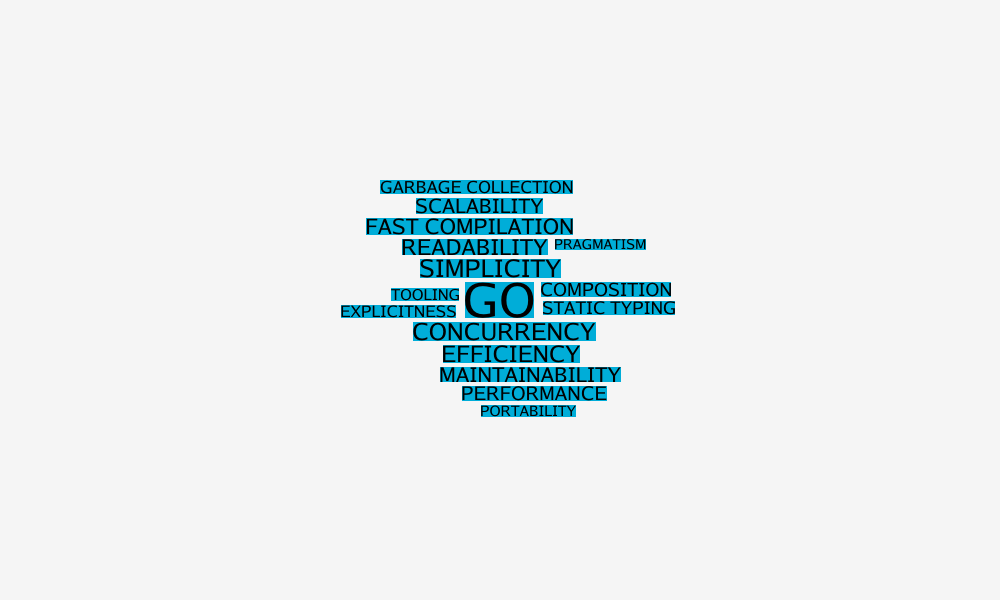
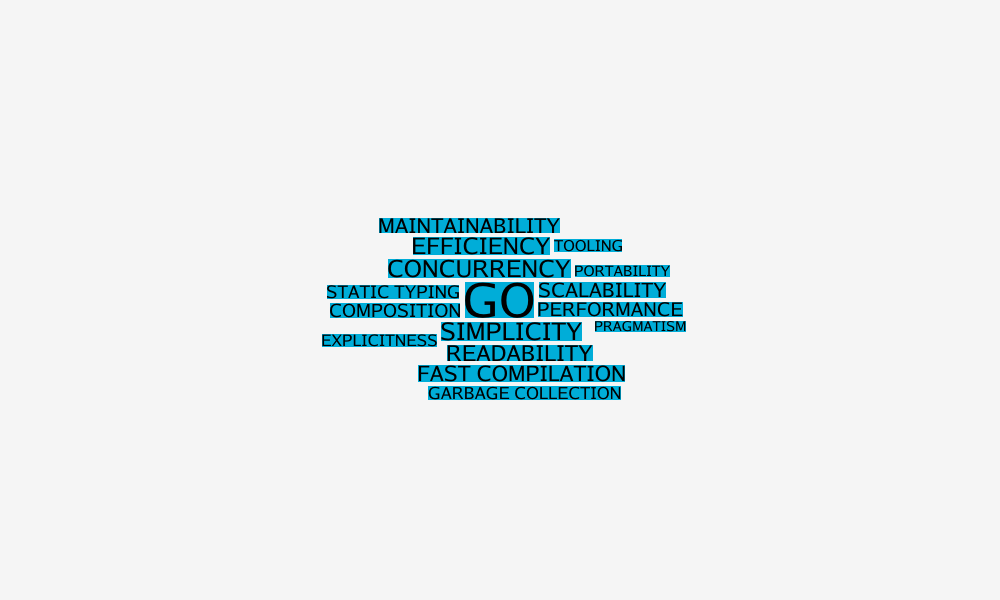
fix: squished spiral

Changed region(s): [[0.31, 0.3, 0.682, 0.72]]

diff --git a/src/main.go b/src/main.go
@@ -47,10 +47,11 @@ func main() {
 			log.Fatalf("Word %q does not fit on canvas", word.Text)
 		}
 
-		// Start at the center and move outward along an Archimedean spiral.
+		// Start at the center and move outward along a vertically squished spiral.
 		centerX := canvas.Bounds().Min.X + canvasMaxX/2
 		centerY := canvas.Bounds().Min.Y + canvasMaxY/2
-		maxRadius := math.Hypot(float64(canvasMaxX), float64(canvasMaxY))/2 + 2
+		const verticalScale = 0.6
+		maxRadius := math.Hypot(float64(canvasMaxX)/2, float64(canvasMaxY)/(2*verticalScale)) + 2
 		phase := rand.Float64() * 2 * math.Pi
 		var placedRect image.Rectangle
 		found := false
@@ -60,7 +61,7 @@ func main() {
 		for angle := 0.0; 1.5*angle <= maxRadius && !found; angle += 1 / math.Max(1, 1.5*angle) {
 			radius := 1.5 * angle
 			x := centerX + int(math.Round(radius*math.Cos(angle+phase)))
-			y := centerY + int(math.Round(radius*math.Sin(angle+phase)))
+			y := centerY + int(math.Round(verticalScale*radius*math.Sin(angle+phase)))
 			if x < canvas.Bounds().Min.X || x > canvas.Bounds().Min.X+canvasMaxX ||
 				y < canvas.Bounds().Min.Y || y > canvas.Bounds().Min.Y+canvasMaxY {
 				continue

diff --git a/ping_pong/ping_pong.go b/ping_pong/ping_pong.go
@@ -1,0 +1,3 @@
+package main
+
+func main() {}
